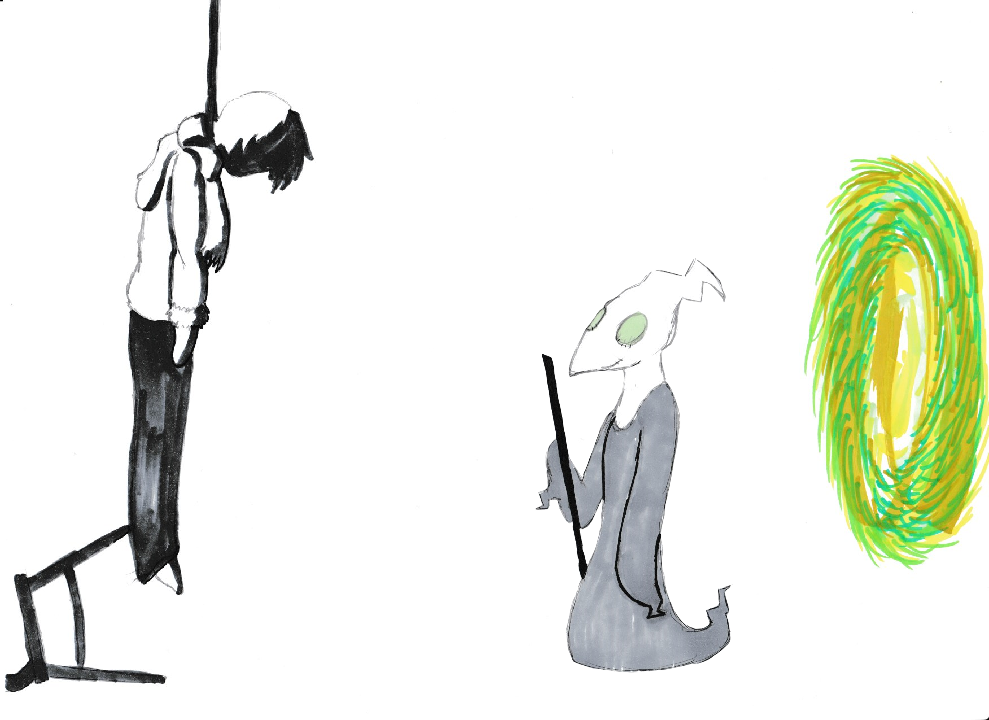
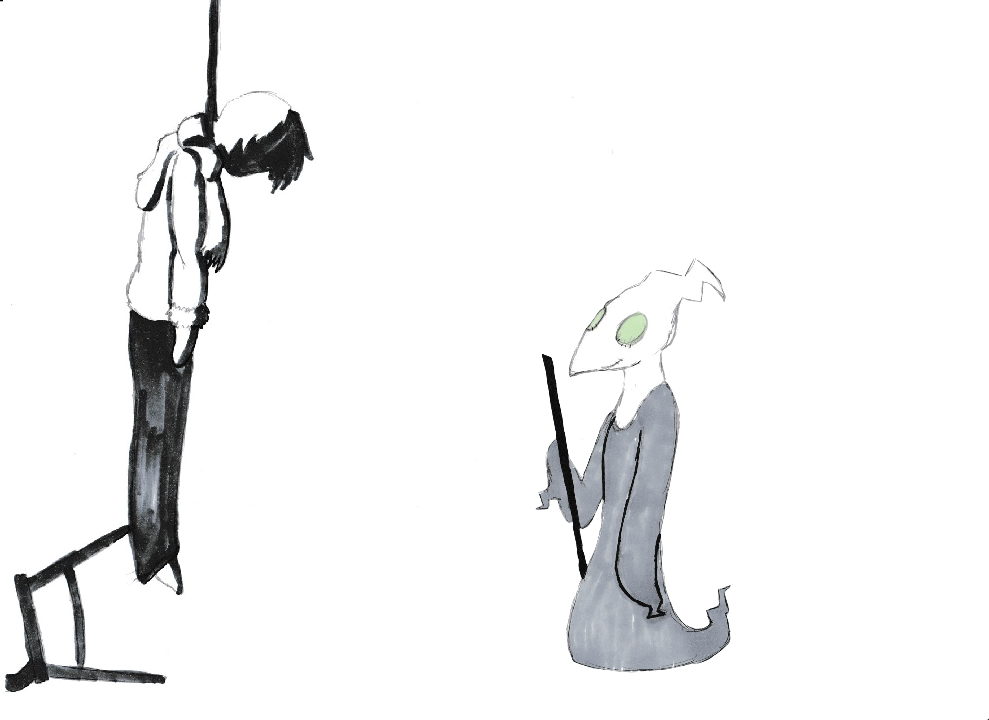
Portal is now only show when it can be entered

Changed region(s): [[0.7887, 0.2139, 1.0, 0.7944]]

diff --git a/Afterlife/Source/Private/Levels/AfterlifeLevel.cpp b/Afterlife/Source/Private/Levels/AfterlifeLevel.cpp
@@ -11,6 +11,7 @@ AfterlifeLevel::AfterlifeLevel()
     player->SetLocation(Vector2(286, 427));
 
     background = new Sprite("Assets/Levels/Afterlife.png");
+    portal = new Sprite("Assets/Levels/Afterlife-overlay.png");
 
     levelLoader = new FrozenRiverLevelLoader("Afterlife", Vector2(186, 302));
     levelLoader->SetLocation(Vector2(803, 377));
@@ -44,6 +45,7 @@ AfterlifeLevel::~AfterlifeLevel()
     delete player;
 
     delete background;
+    delete portal;
 
     delete conversation;
     delete levelLoader;
@@ -66,6 +68,7 @@ void AfterlifeLevel::Render()
 
     if (conversation->HasEnded())
     {
+        portal->Render();
         levelLoader->Render();
     }
 

diff --git a/Afterlife/Source/Public/Levels/AfterlifeLevel.h b/Afterlife/Source/Public/Levels/AfterlifeLevel.h
@@ -10,6 +10,7 @@ class AfterlifeLevel : public Level
     Player* player;
 
     Sprite* background;
+    Sprite* portal;
 
     Conversation* conversation;
     Interactable* levelLoader;
